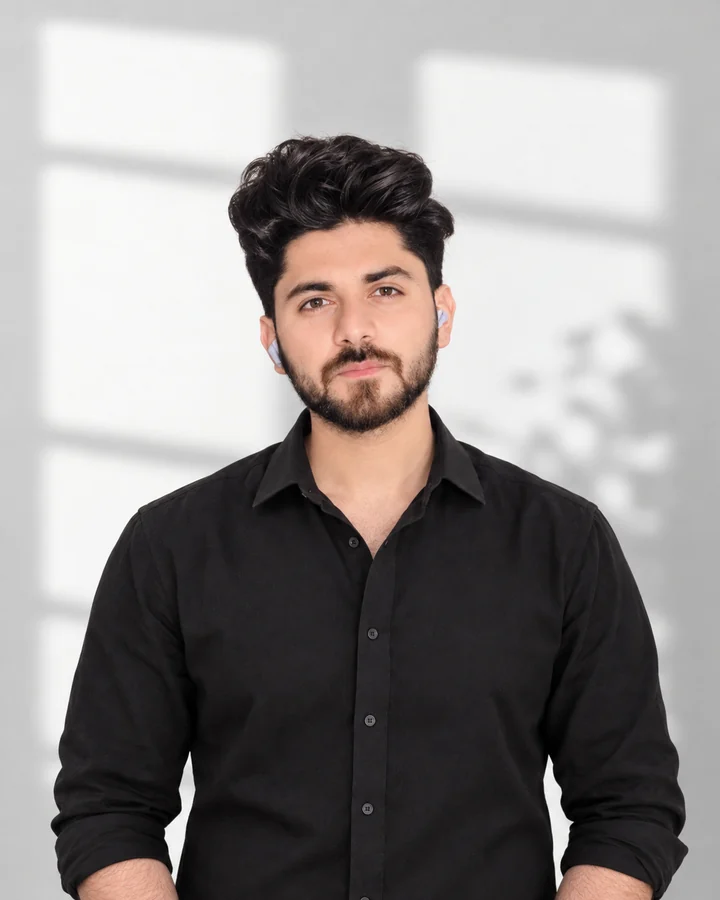
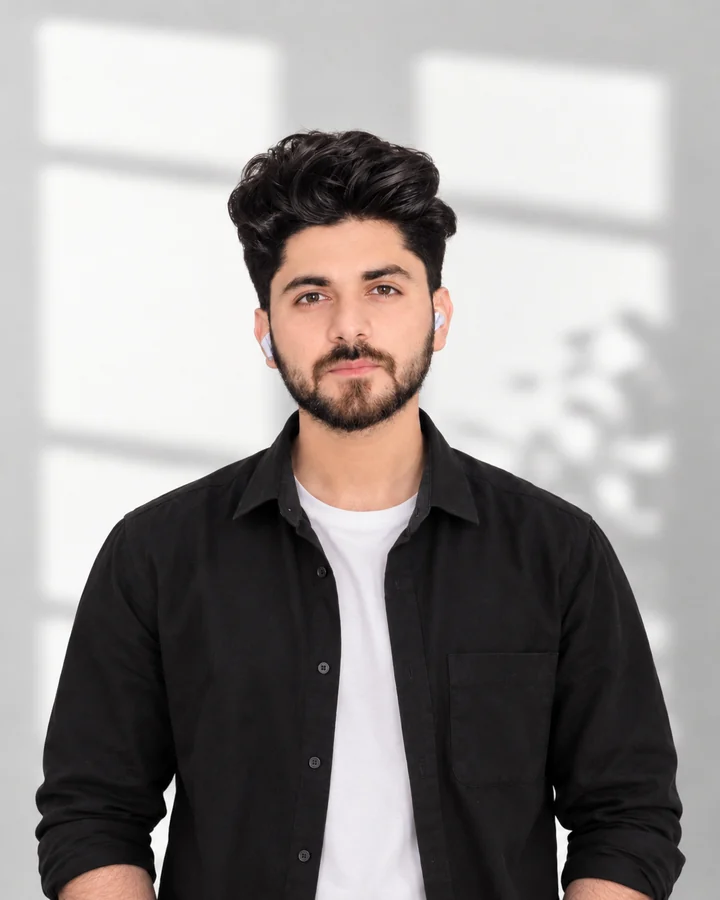
Separate team departments, place department heads with their teams and update Shoaib's portrait

diff --git a/team.html b/team.html
@@ -41,7 +41,7 @@ header nav a, .site-header nav a, .header nav a {
 <link rel="alternate icon" type="image/x-icon" href="favicon.ico"/>
 <link rel="apple-touch-icon" sizes="180x180" href="assets/apple-touch-icon.png"/>
 <link rel="stylesheet" href="assets/footer-branding.css?v=1"/>
-<link rel="stylesheet" href="assets/team-people.css?v=3"/>
+<link rel="stylesheet" href="assets/team-people.css?v=4"/>
 </head><body id="page-top" class="inner-page about-page responsive-site team-people-page"><header class="site-header" id="header">
 <div class="header-shell">
 <a aria-label="HUCO Digital home" class="brand" href="index.html"><img alt="HUCO Digital" decoding="async" height="245" src="assets/huco-logo.png" width="1043"/></a>
@@ -76,7 +76,7 @@ header nav a, .site-header nav a, .header nav a {
 <span class="people-kicker">HUCO / Our people</span>
 <h1 id="team-title">Different specialists.<br/> One connected team.</h1>
 <p>Meet the people behind the ideas, the craft and the details. Different strengths, working together to move your brand forward.</p>
-<nav class="people-nav" aria-label="Explore our team"><a href="#ceo">Meet our CEO</a><a href="#leadership">Leadership</a><a href="#social-performance">Social &amp; performance</a><a href="#design-development">Design &amp; development</a><a href="#production">Photography &amp; film</a></nav>
+<nav class="people-nav" aria-label="Explore our team"><a href="#ceo">Meet our CEO</a><a href="#leadership">Leadership</a><a href="#social-media">Social media</a><a href="#performance">Performance</a><a href="#graphic-design">Graphic design</a><a href="#web-development">Web development</a><a href="#video">Video production</a><a href="#photography">Photography</a></nav>
 </div></section>
 <section class="people-ceo" id="ceo" aria-labelledby="ceo-message-title">
 <div class="people-shell people-ceo-layout">
@@ -92,45 +92,49 @@ header nav a, .site-header nav a, .header nav a {
 <div class="people-ceo-signature"><h3>Sheikh Haris Ahmed</h3><p>Chief Executive Officer</p></div>
 </div></div></section>
 <div class="people-directory people-shell">
-<section class="people-department" id="leadership" aria-labelledby="leadership-title">
-<div class="people-department-head"><div><span class="people-kicker">Direction. Care. Collaboration.</span><h2 id="leadership-title">Leadership &amp; people</h2></div><p>The people guiding our work, supporting our teams and keeping every discipline connected.</p></div>
-<div class="people-grid">
+<section class="people-department people-department--compact" id="leadership" aria-labelledby="leadership-title">
+<div class="people-department-head"><div><span class="people-kicker">Direction. Care. Collaboration.</span><h2 id="leadership-title">Leadership &amp; people</h2></div><p>Guiding the agency and supporting the people behind our work.</p></div>
+<div class="people-grid people-grid--two">
 <article class="people-card" data-person="Hitika Vaid">
 <div class="people-card-portrait people-initials" aria-hidden="true"><span>HV</span></div>
 <div class="people-card-copy"><h3>Hitika Vaid</h3><p>General Manager</p></div>
-</article>
-<article class="people-card" data-person="Amna Sheikh">
-<div class="people-card-portrait"><img src="assets/team/amna-sheikh.webp" alt="Amna Sheikh" width="720" height="900" loading="lazy" decoding="async"/></div>
-<div class="people-card-copy"><h3>Amna Sheikh</h3><p>Head of Social Media</p></div>
-</article>
-<article class="people-card" data-person="Hamza Riaz">
-<div class="people-card-portrait"><img src="assets/team/hamza-riaz.webp" alt="Hamza Riaz" width="720" height="900" loading="lazy" decoding="async"/></div>
-<div class="people-card-copy"><h3>Hamza Riaz</h3><p>Head of Graphic Design</p></div>
 </article>
 <article class="people-card" data-person="Samman Naeem">
 <div class="people-card-portrait"><img src="assets/team/samman-naeem.webp" alt="Samman Naeem" width="720" height="900" loading="lazy" decoding="async"/></div>
 <div class="people-card-copy"><h3>Samman Naeem</h3><p>Human Resource Manager</p></div>
 </article>
 </div></section>
-<section class="people-department" id="social-performance" aria-labelledby="social-performance-title">
-<div class="people-department-head"><div><span class="people-kicker">Connecting brands with people.</span><h2 id="social-performance-title">Social &amp; performance</h2></div><p>Content, community and campaign thinking brought together around your audience.</p></div>
-<div class="people-grid people-grid--three">
+<section class="people-department people-department--compact" id="social-media" aria-labelledby="social-media-title">
+<div class="people-department-head"><div><span class="people-kicker">Connecting brands with people.</span><h2 id="social-media-title">Social media team</h2></div><p>Social strategy, content and community, led by Amna Sheikh.</p></div>
+<div class="people-grid people-grid--two">
+<article class="people-card" data-person="Amna Sheikh">
+<div class="people-card-portrait"><img src="assets/team/amna-sheikh.webp" alt="Amna Sheikh" width="720" height="900" loading="lazy" decoding="async"/></div>
+<div class="people-card-copy"><h3>Amna Sheikh</h3><p>Head of Social Media</p></div>
+</article>
 <article class="people-card" data-person="Malaika Khan">
 <div class="people-card-portrait"><img src="assets/team/malaika-khan.webp" alt="Malaika Khan" width="720" height="900" loading="lazy" decoding="async"/></div>
 <div class="people-card-copy"><h3>Malaika Khan</h3><p>Social Media Executive</p></div>
+</article>
+</div></section>
+<section class="people-department people-department--compact" id="performance" aria-labelledby="performance-title">
+<div class="people-department-head"><div><span class="people-kicker">Campaigns with a clear purpose.</span><h2 id="performance-title">Performance marketing team</h2></div><p>Search advertising and campaign analysis focused on reaching the right audience.</p></div>
+<div class="people-grid people-grid--two">
+<article class="people-card" data-person="Uzair Anees">
+<div class="people-card-portrait people-initials" aria-hidden="true"><span>UA</span></div>
+<div class="people-card-copy"><h3>Uzair Anees</h3><p>Google Ads Specialist</p></div>
 </article>
 <article class="people-card" data-person="Manahal Ijaz">
 <div class="people-card-portrait"><img src="assets/team/manahal-ijaz.webp" alt="Manahal Ijaz" width="720" height="900" loading="lazy" decoding="async"/></div>
 <div class="people-card-copy"><h3>Manahal Ijaz</h3><p>Campaign Analyst</p></div>
 </article>
-<article class="people-card" data-person="Uzair Anees">
-<div class="people-card-portrait people-initials" aria-hidden="true"><span>UA</span></div>
-<div class="people-card-copy"><h3>Uzair Anees</h3><p>Google Ads Specialist</p></div>
-</article>
 </div></section>
-<section class="people-department" id="design-development" aria-labelledby="design-development-title">
-<div class="people-department-head"><div><span class="people-kicker">From visual ideas to digital experiences.</span><h2 id="design-development-title">Design &amp; development</h2></div><p>Designers and developers bringing brand stories, websites and digital experiences to life.</p></div>
+<section class="people-department" id="graphic-design" aria-labelledby="graphic-design-title">
+<div class="people-department-head"><div><span class="people-kicker">Ideas made visible.</span><h2 id="graphic-design-title">Graphic design team</h2></div><p>Brand visuals and creative design, led by Hamza Riaz.</p></div>
 <div class="people-grid">
+<article class="people-card" data-person="Hamza Riaz">
+<div class="people-card-portrait"><img src="assets/team/hamza-riaz.webp" alt="Hamza Riaz" width="720" height="900" loading="lazy" decoding="async"/></div>
+<div class="people-card-copy"><h3>Hamza Riaz</h3><p>Head of Graphic Design</p></div>
+</article>
 <article class="people-card" data-person="Bisma Akram">
 <div class="people-card-portrait"><img src="assets/team/bisma-akram.webp" alt="Bisma Akram" width="720" height="900" loading="lazy" decoding="async"/></div>
 <div class="people-card-copy"><h3>Bisma Akram</h3><p>Graphic Designer</p></div>
@@ -139,8 +143,12 @@ header nav a, .site-header nav a, .header nav a {
 <div class="people-card-portrait"><img src="assets/team/kashif-hussain.webp" alt="Kashif Hussain" width="720" height="900" loading="lazy" decoding="async"/></div>
 <div class="people-card-copy"><h3>Kashif Hussain</h3><p>Graphic Designer</p></div>
 </article>
+</div></section>
+<section class="people-department people-department--compact" id="web-development" aria-labelledby="web-development-title">
+<div class="people-department-head"><div><span class="people-kicker">Built for the way people use the web.</span><h2 id="web-development-title">Web development team</h2></div><p>Websites and digital experiences that bring design and development together.</p></div>
+<div class="people-grid people-grid--two">
 <article class="people-card" data-person="Shoaib Akhtar">
-<div class="people-card-portrait"><img src="assets/team/shoaib-akhtar.webp" alt="Shoaib Akhtar" width="720" height="900" loading="lazy" decoding="async"/></div>
+<div class="people-card-portrait"><img src="assets/team/shoaib-akhtar.webp?v=2" alt="Shoaib Akhtar" width="720" height="900" loading="lazy" decoding="async"/></div>
 <div class="people-card-copy"><h3>Shoaib Akhtar</h3><p>Web Developer</p></div>
 </article>
 <article class="people-card" data-person="Arslan Naeem">
@@ -148,13 +156,9 @@ header nav a, .site-header nav a, .header nav a {
 <div class="people-card-copy"><h3>Arslan Naeem</h3><p>Web Developer</p></div>
 </article>
 </div></section>
-<section class="people-department" id="production" aria-labelledby="production-title">
-<div class="people-department-head"><div><span class="people-kicker">Every frame has a purpose.</span><h2 id="production-title">Photography &amp; film</h2></div><p>The photographers, filmmakers and editors behind our visual storytelling.</p></div>
+<section class="people-department" id="video" aria-labelledby="video-title">
+<div class="people-department-head"><div><span class="people-kicker">Stories shaped in motion.</span><h2 id="video-title">Video production team</h2></div><p>Cinematography, editing and post-production, from the first frame to the final cut.</p></div>
 <div class="people-grid">
-<article class="people-card" data-person="Taha Naeem">
-<div class="people-card-portrait"><img src="assets/team/taha-naeem.webp" alt="Taha Naeem" width="720" height="900" loading="lazy" decoding="async"/></div>
-<div class="people-card-copy"><h3>Taha Naeem</h3><p>Senior Photographer</p></div>
-</article>
 <article class="people-card" data-person="Pratiksha">
 <div class="people-card-portrait"><img src="assets/team/pratiksha.webp" alt="Pratiksha" width="720" height="900" loading="lazy" decoding="async"/></div>
 <div class="people-card-copy"><h3>Pratiksha</h3><p>Cinematographer</p></div>
@@ -171,13 +175,21 @@ header nav a, .site-header nav a, .header nav a {
 <div class="people-card-portrait"><img src="assets/team/samson.webp" alt="Samson" width="720" height="900" loading="lazy" decoding="async"/></div>
 <div class="people-card-copy"><h3>Samson</h3><p>Senior Video Editor</p></div>
 </article>
-<article class="people-card" data-person="Sameed Khalid">
-<div class="people-card-portrait"><img src="assets/team/sameed-khalid.webp" alt="Sameed Khalid" width="720" height="900" loading="lazy" decoding="async"/></div>
-<div class="people-card-copy"><h3>Sameed Khalid</h3><p>Senior Photo Editor</p></div>
-</article>
 <article class="people-card" data-person="Dawood Khan">
 <div class="people-card-portrait"><img src="assets/team/dawood-khan.webp" alt="Dawood Khan" width="720" height="900" loading="lazy" decoding="async"/></div>
 <div class="people-card-copy"><h3>Dawood Khan</h3><p>Junior Editor</p></div>
+</article>
+</div></section>
+<section class="people-department people-department--compact" id="photography" aria-labelledby="photography-title">
+<div class="people-department-head"><div><span class="people-kicker">Every detail in focus.</span><h2 id="photography-title">Photography team</h2></div><p>Photography and photo editing that give every image a considered finish.</p></div>
+<div class="people-grid people-grid--two">
+<article class="people-card" data-person="Taha Naeem">
+<div class="people-card-portrait"><img src="assets/team/taha-naeem.webp" alt="Taha Naeem" width="720" height="900" loading="lazy" decoding="async"/></div>
+<div class="people-card-copy"><h3>Taha Naeem</h3><p>Senior Photographer</p></div>
+</article>
+<article class="people-card" data-person="Sameed Khalid">
+<div class="people-card-portrait"><img src="assets/team/sameed-khalid.webp" alt="Sameed Khalid" width="720" height="900" loading="lazy" decoding="async"/></div>
+<div class="people-card-copy"><h3>Sameed Khalid</h3><p>Senior Photo Editor</p></div>
 </article>
 </div></section>
 </div>

diff --git a/assets/team-people.css b/assets/team-people.css
@@ -33,8 +33,11 @@
 .people-department-head .people-kicker {margin-bottom:10px;}
 .people-department-head h2 {margin:0;font-size:clamp(28px,3vw,40px);font-weight:600;line-height:1.2;letter-spacing:-.04em;}
 .people-department-head > p {max-width:360px;margin:0;color:#6c6864;font-size:14px;line-height:1.7;}
-.people-grid {display:grid;grid-template-columns:repeat(4,minmax(0,1fr));gap:32px 22px;}
-.people-grid--three {grid-template-columns:repeat(3,minmax(0,1fr));}
+.people-grid {display:grid;grid-template-columns:repeat(3,minmax(0,1fr));gap:32px 22px;}
+.people-grid--two {grid-template-columns:repeat(2,minmax(0,1fr));}
+.people-department--compact {display:grid;grid-template-columns:minmax(0,1fr) minmax(0,2fr);gap:40px;align-items:center;}
+.people-department--compact .people-department-head {display:block;margin-bottom:0;}
+.people-department--compact .people-department-head > p {margin-top:18px;}
 .people-card {min-width:0;}
 .people-card-portrait {aspect-ratio:4/5;overflow:hidden;border-radius:4px;background:#e9e8e5;}
 .people-card-portrait img {display:block;width:100%;height:100%;object-fit:cover;object-position:center top;transition:transform .45s ease;}
@@ -80,6 +83,8 @@
   .people-department {padding-top:36px;}
   .people-department + .people-department {margin-top:36px;}
   .people-department-head {display:block;margin-bottom:24px;}
+  .people-department--compact {display:block;}
+  .people-department--compact .people-department-head {margin-bottom:24px;}
   .people-department-head h2 {font-size:30px;}
   .people-department-head > p {max-width:100%;margin-top:14px;}
   .people-grid {grid-template-columns:repeat(2,minmax(0,1fr));gap:28px 16px;}
